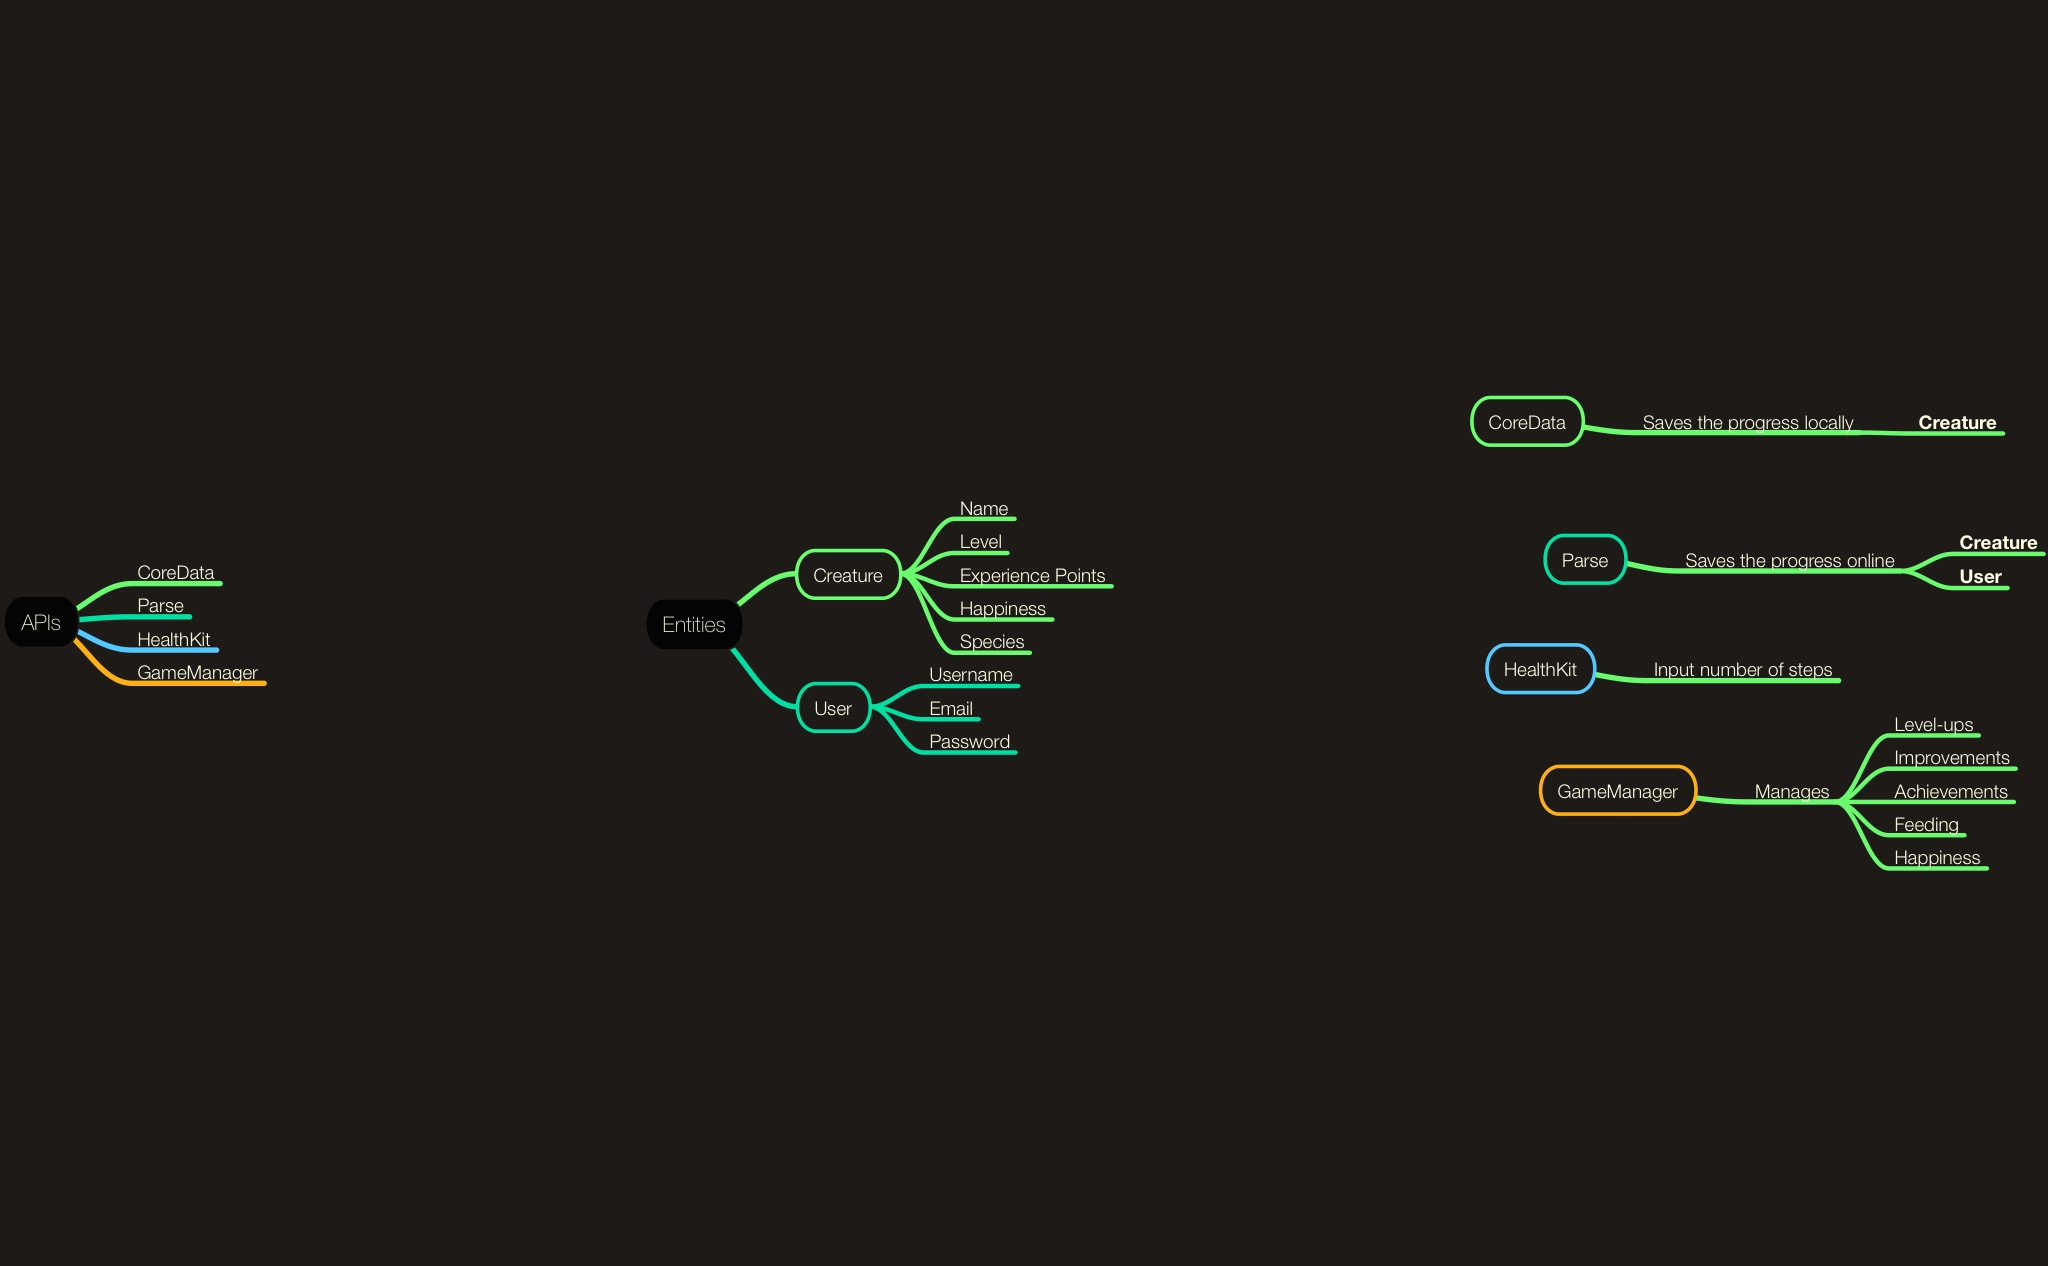
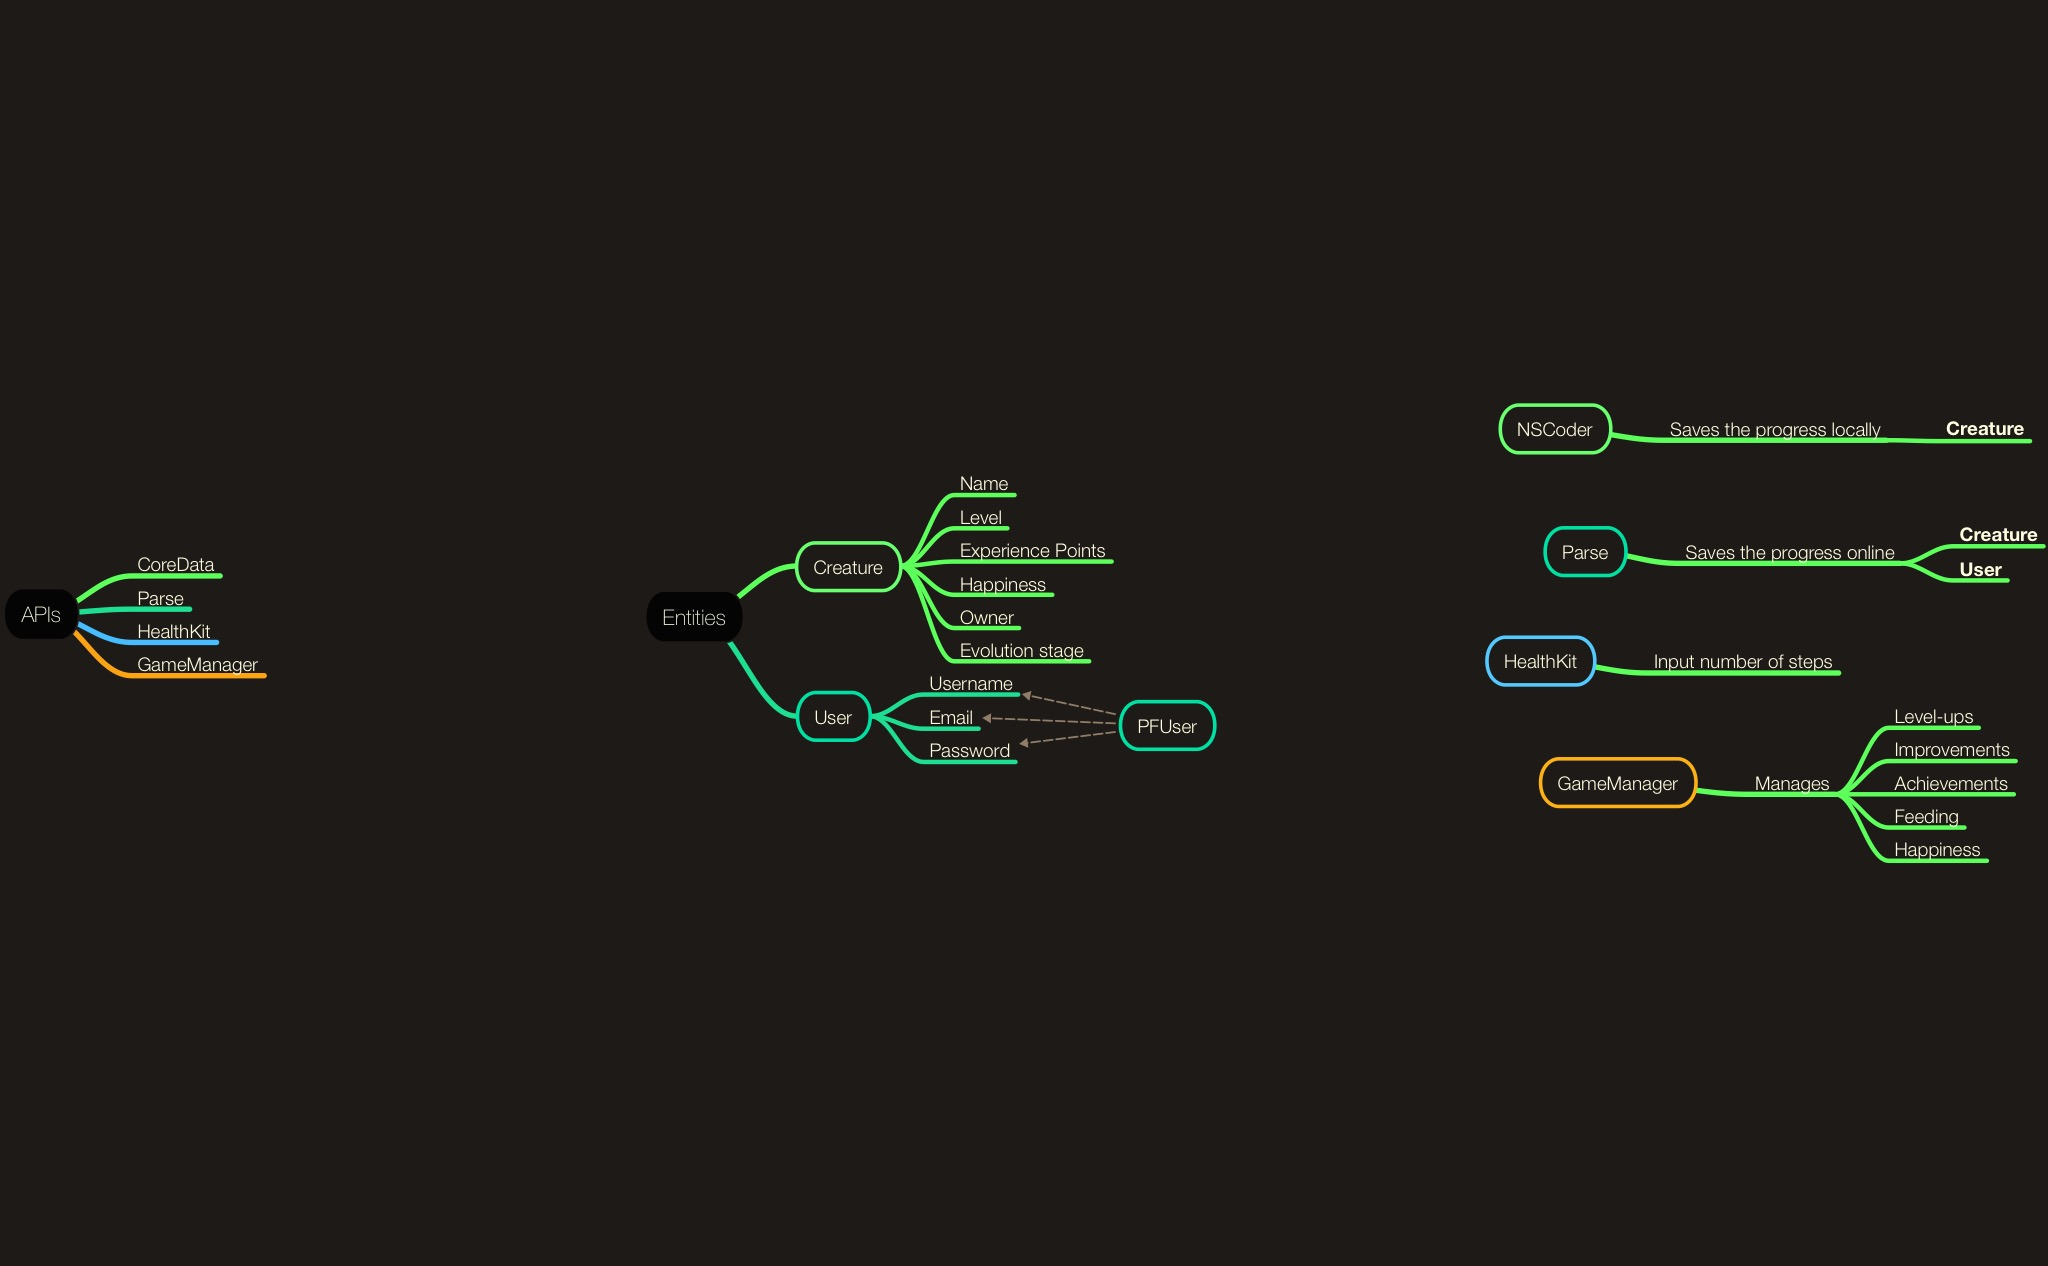
Add Parse initializers to Creature class

diff --git a/ProjectCreature/ProjectCreature/Models/Creature.swift b/ProjectCreature/ProjectCreature/Models/Creature.swift
@@ -1,0 +1,68 @@
+//
+//  Creature.swift
+//  ProjectCreature
+//
+//  Created by Adrian Wisaksana on 11/17/15.
+//  Copyright © 2015 BeingAdrian. All rights reserved.
+//
+
+import Foundation
+
+
+class Creature {
+    
+    private let parseHelper = ParseHelper()
+    
+    // MARK: - Properties
+    
+    var name: String
+    var level: Int
+    var exp: Int
+    var happiness: Int
+    var objectID: String?
+    var owner: PFUser?
+    
+    
+    // MARK: - Base methods
+    
+    init(name: String) {
+        
+        self.name = name
+        self.level = 0
+        self.exp = 0
+        self.happiness = 0
+        
+    }
+    
+    init?(parseObject: PFObject) {
+        
+        self.name = parseObject[parseHelper.CreatureNameKey] as! String
+        self.level = parseObject[parseHelper.CreatureLevelKey] as! Int
+        self.exp = parseObject[parseHelper.CreatureExpKey] as! Int
+        self.happiness = parseObject[parseHelper.CreatureHappinessKey] as! Int
+        self.objectID = parseObject.objectId!
+        self.owner = parseObject[parseHelper.CreatureOwnerKey] as? PFUser
+        
+    }
+    
+    func parseObjectFromClass() -> PFObject {
+        
+        let creatureParseObject = PFObject(className: parseHelper.CreatureClassName)
+        
+        creatureParseObject[parseHelper.CreatureNameKey] = self.name
+        creatureParseObject[parseHelper.CreatureLevelKey] = self.level
+        creatureParseObject[parseHelper.CreatureExpKey] = self.exp
+        creatureParseObject[parseHelper.CreatureHappinessKey] = self.happiness
+        creatureParseObject[parseHelper.CreatureOwnerKey] = self.owner
+        
+        return creatureParseObject
+        
+    }
+    
+    deinit {
+        
+        
+        
+    }
+    
+}

diff --git a/ProjectCreature/ProjectCreature/SpriteKit/Scenes/DashboardScene.swift b/ProjectCreature/ProjectCreature/SpriteKit/Scenes/DashboardScene.swift
@@ -8,6 +8,7 @@
 
 import SpriteKit
 
+
 class DashboardScene: SKScene {
     
     // MARK: - Properties
@@ -27,7 +28,26 @@ class DashboardScene: SKScene {
         
         label.position = CGPoint(x: frame.midX, y: frame.midY + 30)
         stepCountLabel.position = CGPoint(x: frame.midX, y: frame.midY - 50)
-
+        
+        try! PFUser.logInWithUsername("beingadrian", password: "test")
+        
+        let creature = Creature(name: "Bob")
+        creature.owner = PFUser.currentUser()
+        
+        let creatureParseObject = creature.parseObjectFromClass()
+        
+        creatureParseObject.pinInBackgroundWithBlock {
+            (success, error) in
+            
+            print(success)
+            
+            creatureParseObject.saveEventually {
+                (success, error) in
+                
+                print(success)
+            }
+        }
+        
     }
     
 }

diff --git a/ProjectCreature/ProjectCreature/Parse/ParseHelper.swift b/ProjectCreature/ProjectCreature/Parse/ParseHelper.swift
@@ -11,6 +11,27 @@ import Foundation
 
 class ParseHelper {
     
+    // MARK: - Keys
     
+    let CreatureClassName = "Creature"
+    let CreatureNameKey = "name"
+    let CreatureLevelKey = "level"
+    let CreatureExpKey = "exp"
+    let CreatureHappinessKey = "happiness"
+    let CreatureObjectIDKey = "objectId"
+    let CreatureOwnerKey = "owner"
+    
+    
+    // MARK: - Class methods
+    
+    func saveObjectLocally(object: PFObject) {
+        
+        object.pinInBackgroundWithBlock {
+            (success, error) in
+            
+            
+        }
+        
+    }
     
 }
